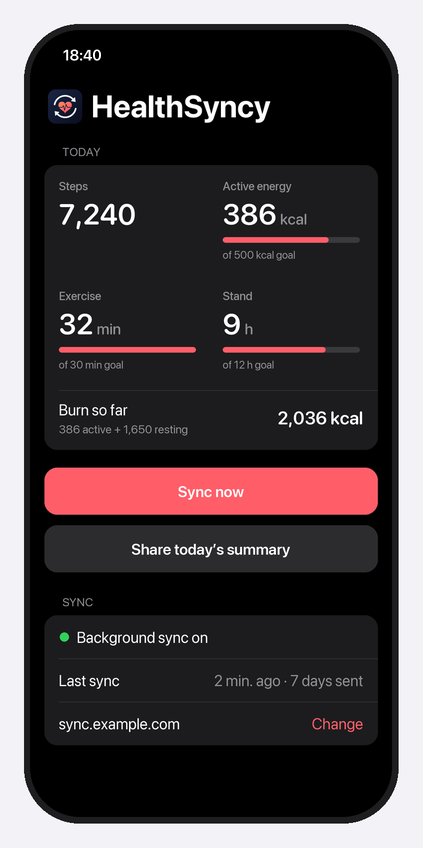
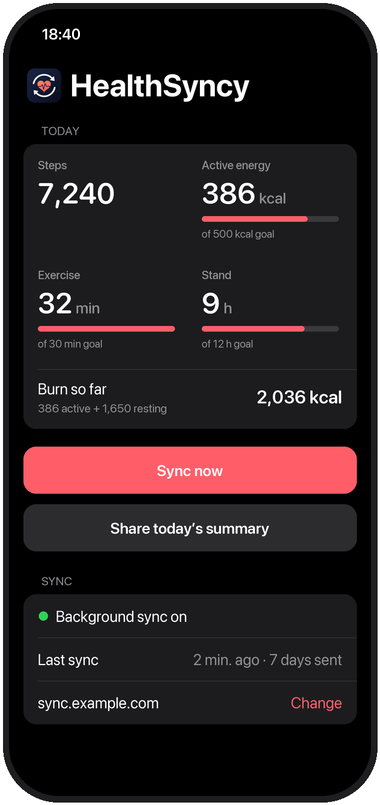
Drop the grey canvas behind the README screenshot
The phone sat on a light grey rectangle, which read as a box on
GitHub's white page and as a bright slab on the dark theme. The image
is now cropped to the phone with a transparent background, so it sits
directly on the page in both themes. The display width shrinks with the
crop, which keeps the phone the same size.

The two-phone image in the iPhone guide keeps its canvas, because its
captions are dark text that would disappear on a dark page.

diff --git a/README.md b/README.md
@@ -12,7 +12,7 @@ It’s C# end to end, from the iPhone app to the server. [Why C#?](#why-c)
 
 ## Share today’s activity
 
-<img src="docs/home-screen-paired.png" width="300" alt="The HealthSyncy home screen showing today’s totals">
+<img src="docs/home-screen-paired.png" width="270" alt="The HealthSyncy home screen showing today’s totals">
 
 [Build and install the iPhone companion](docs/iphone.md) on a Mac. On your iPhone, open HealthSyncy and allow access to the categories you want. Tap **Share today’s summary**, then choose **Copy** or a destination in the iOS share sheet. This works before you set up a server.
 
